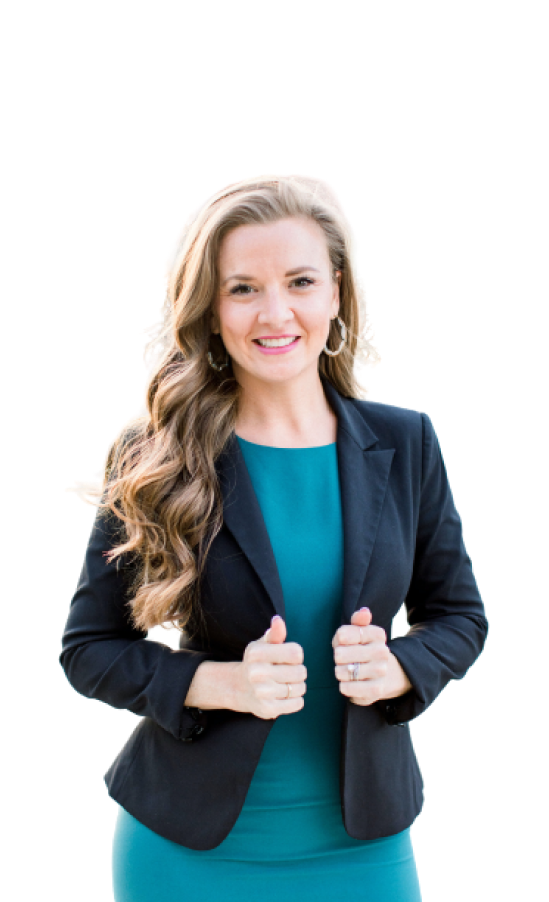
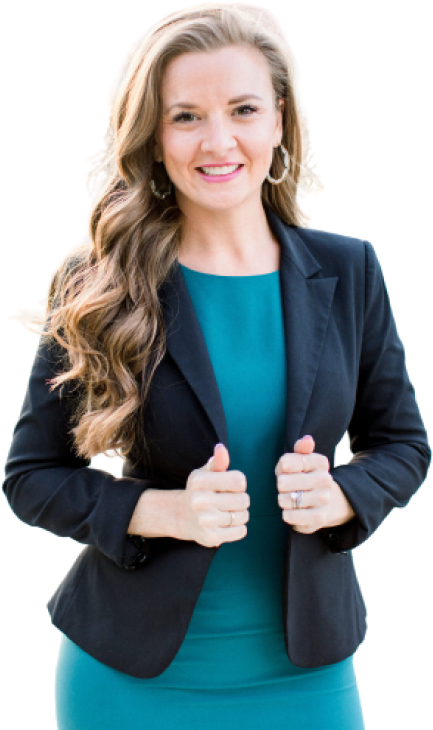
message update

diff --git a/assets/styles/app.css b/assets/styles/app.css
@@ -20,6 +20,7 @@
   --brand_deep:#05546D;
   --black_light:#4F4F4F;
   --black_deep:#2D2F30;
+  --gray: #8B8C8C;
   --white:#FFF;
   --app_font:"poppins-regular";
   --poppin_regular:"poppins-regulaar";
@@ -48,12 +49,13 @@ html {
   margin: 0;
   padding: 0;
   outline: 0;
-  box-sizing: border-box;
+  -webkit-box-sizing: border-box;
+          box-sizing: border-box;
   font-family: var(--app_font);
 }
 
 img,
-label a,
+label, a,
 i,
 span {
   display: inline-block;
@@ -62,13 +64,16 @@ span {
 a {
   text-decoration: none;
   font-size: 12px;
-  transition-duration: 0.3s;
+  -webkit-transition-duration: 0.3s;
+          transition-duration: 0.3s;
 }
 
 img {
   max-width: 100%;
-  object-fit: cover;
-  object-position: left;
+  -o-object-fit: cover;
+     object-fit: cover;
+  -o-object-position: left;
+     object-position: left;
 }
 
 ul,
@@ -106,7 +111,8 @@ section,
 aside,
 main,
 footer {
-  box-sizing: border-box;
+  -webkit-box-sizing: border-box;
+          box-sizing: border-box;
 }
 
 h1 {
@@ -164,10 +170,17 @@ header {
   /* header_end here    */
 }
 header .header_body {
+  display: -webkit-box;
+  display: -ms-flexbox;
   display: flex;
-  flex-wrap: wrap;
-  justify-content: space-between;
-  align-items: center;
+  -ms-flex-wrap: wrap;
+      flex-wrap: wrap;
+  -webkit-box-pack: justify;
+      -ms-flex-pack: justify;
+          justify-content: space-between;
+  -webkit-box-align: center;
+      -ms-flex-align: center;
+          align-items: center;
   padding: 25px 0px;
   /*   header_body_end here*/
 }
@@ -178,16 +191,28 @@ header .header_body .logo img {
   padding-top: 5px;
 }
 header .header_body .right_content {
-  flex: 1;
+  -webkit-box-flex: 1;
+      -ms-flex: 1;
+          flex: 1;
+  display: -webkit-box;
+  display: -ms-flexbox;
   display: flex;
-  justify-content: space-between;
+  -webkit-box-pack: justify;
+      -ms-flex-pack: justify;
+          justify-content: space-between;
 }
 header .header_body .right_content .nav {
-  flex: 1;
+  -webkit-box-flex: 1;
+      -ms-flex: 1;
+          flex: 1;
   display: grid;
-  align-items: center;
+  -webkit-box-align: center;
+      -ms-flex-align: center;
+          align-items: center;
 }
 header .header_body .right_content .extra_links {
+  display: -webkit-box;
+  display: -ms-flexbox;
   display: flex;
   gap: 10px;
 }
@@ -202,24 +227,34 @@ header .header_body .right_content .extra_links .search a span {
 }
 header .header_body .right_content .extra_links .nav_control {
   display: none;
-  align-items: center;
+  -webkit-box-align: center;
+      -ms-flex-align: center;
+          align-items: center;
 }
 header .header_body .right_content .extra_links .nav_control a {
   line-height: 0;
 }
 @media (min-width: 0px) and (max-width: 991.9px) {
   header .header_body .right_content {
-    justify-content: flex-end;
+    -webkit-box-pack: end;
+        -ms-flex-pack: end;
+            justify-content: flex-end;
   }
   header .header_body .right_content .nav {
-    order: 2;
-    flex: unset;
+    -webkit-box-ordinal-group: 3;
+        -ms-flex-order: 2;
+            order: 2;
+    -webkit-box-flex: unset;
+        -ms-flex: unset;
+            flex: unset;
   }
   header .header_body .right_content .nav ul li.close_btn_nav {
     display: block;
   }
   header .header_body .right_content .extra_links {
-    order: 1;
+    -webkit-box-ordinal-group: 2;
+        -ms-flex-order: 1;
+            order: 1;
   }
   header .header_body .right_content .extra_links .nav_control {
     display: grid;
@@ -232,9 +267,13 @@ header .header_body .right_content .extra_links .nav_control a {
 nav ul {
   margin-bottom: 0;
   padding: 0;
+  display: -webkit-box;
+  display: -ms-flexbox;
   display: flex;
   gap: 55px;
-  justify-content: center;
+  -webkit-box-pack: center;
+      -ms-flex-pack: center;
+          justify-content: center;
 }
 nav ul li {
   list-style-type: none;
@@ -265,7 +304,10 @@ nav ul li a.active, nav ul li a:hover {
   nav ul {
     display: none;
     position: fixed;
-    flex-direction: column;
+    -webkit-box-orient: vertical;
+    -webkit-box-direction: normal;
+        -ms-flex-direction: column;
+            flex-direction: column;
     width: 26vw;
     min-width: 200px;
     gap: 14px;
@@ -273,11 +315,15 @@ nav ul li a.active, nav ul li a:hover {
     padding: 23px 0px;
     right: 0px;
     height: 100vh;
-    justify-content: flex-start;
+    -webkit-box-pack: start;
+        -ms-flex-pack: start;
+            justify-content: flex-start;
     text-align: left;
     padding-left: 29px;
-    backdrop-filter: blur(2px);
-    box-shadow: 0px 0px 5px black;
+    -webkit-backdrop-filter: blur(2px);
+            backdrop-filter: blur(2px);
+    -webkit-box-shadow: 0px 0px 5px black;
+            box-shadow: 0px 0px 5px black;
     background: rgba(206, 200, 200, 0.231372549);
   }
   nav ul.active {
@@ -290,7 +336,7 @@ nav ul li a.active, nav ul li a:hover {
 #banner .banner_content {
   display: grid;
   grid-template-columns: 755px 1fr;
-  border: 2px solid red;
+  padding: 150px 0px 75px;
 }
 #banner .banner_content .left_banner_details .top h1 {
   font-family: "Playfair Display", serif;
@@ -306,12 +352,43 @@ nav ul li a.active, nav ul li a:hover {
   margin-top: 44px;
 }
 #banner .banner_content .left_banner_details .top a {
-  display: inline-block;
   padding: 29px 36px;
   background-color: var(--brand_deep);
   border-radius: 8px;
   color: var(--white);
   text-transform: uppercase;
+  margin-top: 50px;
+}
+#banner .banner_content .left_banner_details .bottom {
+  margin-top: 95px;
+}
+#banner .banner_content .left_banner_details .bottom p {
+  font-size: 22px;
+  color: var(--gray);
+  line-height: 30px;
+}
+#banner .banner_content .left_banner_details .bottom .sponsor_list {
+  margin-top: 32px;
+  display: grid;
+  grid-template-columns: 103px 103px;
+  gap: 27px;
+}
+#banner .banner_content .left_banner_details .bottom .sponsor_list a img {
+  width: 100%;
+  -o-object-fit: contain;
+     object-fit: contain;
+}
+#banner .right_banner_image {
+  position: relative;
+}
+#banner .right_banner_image .img {
+  width: 540px;
+  position: absolute;
+  left: -135px;
+  top: 1px;
+}
+#banner .right_banner_image .img img {
+  width: 100%;
 }
 
 /*# sourceMappingURL=app.css.map */

diff --git a/assets/scss/views/home_page_sections/_banner.scss b/assets/scss/views/home_page_sections/_banner.scss
@@ -2,7 +2,9 @@
     .banner_content {
         display: grid;
         grid-template-columns: 755px 1fr;
-        border:2px solid red;
+        // border: 2px solid red;
+        padding: 150px 0px 75px;
+
         .left_banner_details {
             .top {
                 h1 {
@@ -22,31 +24,57 @@
                 }
 
                 a {
-                   display: inline-block;
+                    //    display: inline-block;
                     padding: 29px 36px;
                     background-color: var(--brand_deep);
                     border-radius: 8px;
                     color: var(--white);
                     text-transform: uppercase;
+                    margin-top: 50px;
                 }
             }
 
+            //  bottom-part
             .bottom {
-                p {}
+                margin-top: 95px;
+
+                p {
+                    font-size: 22px;
+                    color: var(--gray);
+                    line-height: 30px;
+                }
 
                 .sponsor_list {
-                    .single_sponsor_logo {
-                        a {
-                            img {}
+                    margin-top: 32px;
+                    display: grid;
+                    grid-template-columns: 103px 103px;
+                    gap: 27px;
+
+                    a {
+                        img {
+                            width: 100%;
+                            object-fit: contain;
                         }
+
                     }
                 }
             }
         }
+    }
 
-        .right_banner_image {
-            .img {
-                img {}
+
+    .right_banner_image {
+        position: relative;
+        // border: var(--border);
+
+        .img {
+            width: 540px;
+            position: absolute;
+            left: -135px;
+            top: 1px;
+
+            img {
+                width: 100%;
             }
         }
     }

diff --git a/index.html b/index.html
@@ -92,22 +92,19 @@
                         </p>
                         <!-- sponsor_list  -->
                         <div class="sponsor_list">
-                            <div class="singel_sponsor_logo">
-                                <a href="#">
-                                    <img src="./assets/images/sponsor_logo/Airbnb Logo.png" alt="">
-                                </a>
-                                <a href="#">
-                                    <img src="./assets/images/sponsor_logo/Hubspot Logo.png" alt="">
-                                </a>
-                            </div>
-                            <div class="single_sponsor_logo">
-                                <a href="#">
-                                    <img src="./assets/images/sponsor_logo/Microsoft Logo.png" alt="">
-                                </a>
-                                <a href="#">
-                                    <img src="./assets/images/sponsor_logo/Google Logo.png" alt="">
-                                </a>
-                            </div>
+
+                            <a href="#">
+                                <img src="./assets/images/sponsor_logo/Airbnb Logo.png" alt="">
+                            </a>
+                            <a href="#">
+                                <img src="./assets/images/sponsor_logo/Hubspot Logo.png" alt="">
+                            </a>
+                            <a href="#">
+                                <img src="./assets/images/sponsor_logo/Microsoft Logo.png" alt="">
+                            </a>
+                            <a href="#">
+                                <img src="./assets/images/sponsor_logo/Google Logo.png" alt="">
+                            </a>
                         </div>
                     </div>
                 </div>

diff --git a/assets/scss/vendors/_variables.scss b/assets/scss/vendors/_variables.scss
@@ -4,6 +4,7 @@
     --brand_deep:#05546D;
     --black_light:#4F4F4F;
     --black_deep:#2D2F30;
+    --gray: #8B8C8C;
     --white:#FFF;
 
     --app_font:"poppins-regular";

diff --git a/assets/scss/vendors/_reset.scss b/assets/scss/vendors/_reset.scss
@@ -8,7 +8,7 @@ html {
 }
 
 img,
-label a,
+label, a,
 i,
 span {
     display: inline-block;
